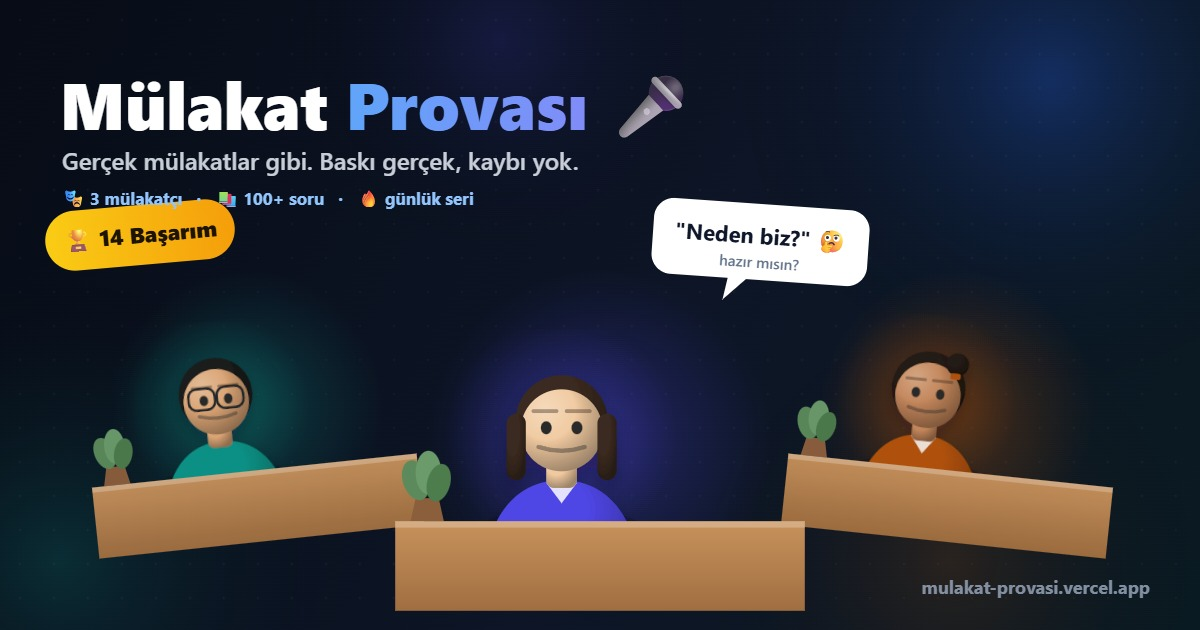
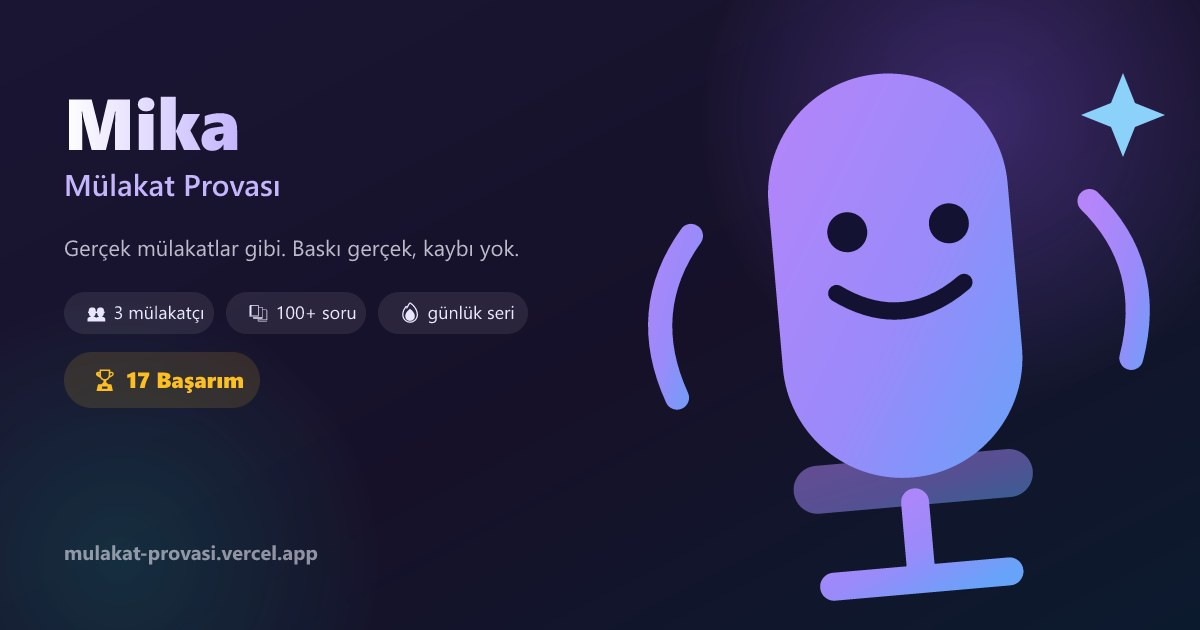
og-image'ı yenile, sonuç kartına Mika damgası ekle
Sosyal paylaşım görseli artık Mika'yı öne çıkarıyor ve doğru başarım
sayısını (17) gösteriyor, eskisi hâlâ 14 diyordu. Sonuç kartında da
artık gerçek bir Mika çizimi var (emoji değil) ve altında "Mika ile
ölçüldü" damgası — bir <img> yüklemek yerine mika.svg'nin path'leri
doğrudan canvas komutlarına çevrildi, senkron ve hızlı.

diff --git a/src/utils/shareImage.ts b/src/utils/shareImage.ts
@@ -24,6 +24,89 @@ const rankSealColor: Record<ShareCardData["rank"], string> = {
   platinum: "#7dd3fc",
 };
 
+// Mika'yı (maskotumuz) doğrudan canvas path'leriyle çiziyor — bir <img> yükleyip
+// asenkron beklemek yerine, mika.svg'deki aynı koordinatları (1024x1024'lük
+// orijinal çizim alanında) transform'larla ölçekleyip yeniden kullanıyoruz.
+function drawMika(ctx: CanvasRenderingContext2D, cx: number, cy: number, size: number) {
+  const scale = size / 1024;
+  ctx.save();
+  ctx.translate(cx, cy);
+  ctx.scale(scale, scale);
+  ctx.translate(-512, -512);
+
+  const bodyGrad = ctx.createLinearGradient(392, 255, 632, 660);
+  bodyGrad.addColorStop(0, "#b685fa");
+  bodyGrad.addColorStop(0.55, "#9a8afa");
+  bodyGrad.addColorStop(1, "#67a3f9");
+
+  ctx.save();
+  ctx.translate(512, 512);
+  ctx.rotate((-5 * Math.PI) / 180);
+  ctx.translate(-512, -512);
+
+  ctx.strokeStyle = bodyGrad;
+  ctx.lineCap = "round";
+  ctx.lineWidth = 24;
+  ctx.beginPath();
+  ctx.moveTo(312, 400);
+  ctx.quadraticCurveTo(252, 470, 284, 560);
+  ctx.stroke();
+  ctx.beginPath();
+  ctx.moveTo(712, 400);
+  ctx.quadraticCurveTo(772, 470, 740, 560);
+  ctx.stroke();
+
+  ctx.fillStyle = bodyGrad;
+  ctx.globalAlpha = 0.5;
+  ctx.beginPath();
+  ctx.roundRect(392, 640, 240, 48, 24);
+  ctx.fill();
+  ctx.globalAlpha = 1;
+
+  ctx.lineWidth = 28;
+  ctx.beginPath();
+  ctx.moveTo(512, 685);
+  ctx.lineTo(512, 762);
+  ctx.moveTo(424, 762);
+  ctx.lineTo(600, 762);
+  ctx.stroke();
+
+  ctx.fillStyle = bodyGrad;
+  ctx.beginPath();
+  ctx.roundRect(392, 255, 240, 405, 120);
+  ctx.fill();
+
+  ctx.fillStyle = "#141232";
+  ctx.beginPath();
+  ctx.arc(468, 410, 20, 0, Math.PI * 2);
+  ctx.fill();
+  ctx.beginPath();
+  ctx.arc(570, 410, 20, 0, Math.PI * 2);
+  ctx.fill();
+  ctx.lineWidth = 17;
+  ctx.strokeStyle = "#141232";
+  ctx.beginPath();
+  ctx.moveTo(452, 470);
+  ctx.quadraticCurveTo(516, 516, 580, 470);
+  ctx.stroke();
+  ctx.restore();
+
+  ctx.fillStyle = "#8bd1fa";
+  ctx.beginPath();
+  ctx.moveTo(735, 255);
+  ctx.lineTo(747, 285);
+  ctx.lineTo(777, 297);
+  ctx.lineTo(747, 309);
+  ctx.lineTo(735, 339);
+  ctx.lineTo(723, 309);
+  ctx.lineTo(693, 297);
+  ctx.lineTo(723, 285);
+  ctx.closePath();
+  ctx.fill();
+
+  ctx.restore();
+}
+
 function wrapText(ctx: CanvasRenderingContext2D, text: string, maxWidth: number): string[] {
   const words = text.split(" ");
   const lines: string[] = [];
@@ -77,11 +160,12 @@ export function generateShareImage(data: ShareCardData): Promise<Blob | null> {
   glow(120, 950, 300, "rgba(13,148,136,0.24)");
   glow(400, 260, 260, `${sealColor}26`);
 
-  // Header
+  // Header — gerçek Mika çizimi, emoji yerine.
+  drawMika(ctx, 74, 60, 56);
   ctx.textAlign = "left";
   ctx.fillStyle = "#f4f2ff";
   ctx.font = "800 27px 'Segoe UI', sans-serif";
-  ctx.fillText("🎤 Mika · Mülakat Provası", 56, 76);
+  ctx.fillText("Mika · Mülakat Provası", 104, 68);
 
   ctx.textAlign = "right";
   const dateStr = new Date().toLocaleDateString("tr-TR", { day: "numeric", month: "long", year: "numeric" });
@@ -189,17 +273,20 @@ export function generateShareImage(data: ShareCardData): Promise<Blob | null> {
     ctx.fillText(line, cardX + 30, cardY + 76 + i * 27);
   });
 
-  // Footer — küçük bir marka rozeti, itiraf/dipnot havası yerine.
+  // Footer — küçük bir "Mika onaylı" damgası, itiraf/dipnot havası yerine.
   ctx.textAlign = "center";
   ctx.font = "700 17px 'Segoe UI', sans-serif";
-  const footerW = ctx.measureText(data.footer).width + 40;
+  const footerTextW = ctx.measureText(data.footer).width;
+  const footerIconSpace = 34;
+  const footerW = footerTextW + footerIconSpace + 44;
   const footerY = canvas.height - 56;
   ctx.fillStyle = "rgba(255,255,255,0.08)";
   ctx.beginPath();
-  ctx.roundRect(canvas.width / 2 - footerW / 2, footerY - 26, footerW, 40, 20);
+  ctx.roundRect(canvas.width / 2 - footerW / 2, footerY - 26, footerW, 44, 22);
   ctx.fill();
+  drawMika(ctx, canvas.width / 2 - footerW / 2 + 24, footerY - 4, 30);
   ctx.fillStyle = "rgba(244,242,255,0.85)";
-  ctx.fillText(data.footer, canvas.width / 2, footerY + 1);
+  ctx.fillText(data.footer, canvas.width / 2 + footerIconSpace / 2, footerY + 1);
 
   return new Promise((resolve) => canvas.toBlob((blob) => resolve(blob), "image/png"));
 }

diff --git a/src/components/ResultScreen.tsx b/src/components/ResultScreen.tsx
@@ -94,7 +94,7 @@ export default function ResultScreen({
           ],
           tipLabel: statLabels[weakStat],
           tip,
-          footer: "mulakat-provasi ile hazırlandı",
+          footer: "Mika ile ölçüldü",
         },
         "mulakat-provasi-sonuc-raporu.png"
       );

diff --git a/PROJE_DURUMU.md b/PROJE_DURUMU.md
@@ -1,6 +1,16 @@
 # Mülakat Provası — Proje Durumu (Handoff Notu)
 
-Bu dosya, yeni bir Claude sohbetinin bu projeye sıfırdan context kaybı olmadan devam edebilmesi için yazıldı. **Son güncelleme: 2026-09-05 (29. tur — maskotun resmi adı "Mika" oldu, arayüze ve açılış sahnesine entegre edildi).**
+Bu dosya, yeni bir Claude sohbetinin bu projeye sıfırdan context kaybı olmadan devam edebilmesi için yazıldı. **Son güncelleme: 2026-09-05 (30. tur — og-image yenilendi, sonuç kartına gerçek Mika çizimi + "Mika ile ölçüldü" damgası eklendi).**
+
+## 30. tur — og-image yenileme + sonuç kartına Mika damgası (2026-09-05)
+
+Önceki turda kapsam dışı bırakılan iki iş tamamlandı:
+
+- **`public/og-image.jpg` tamamen yenilendi.** Eski tasarım (3 mülakatçı illüstrasyonu + "14 Başarım") yerine Mika'yı öne çıkaran yeni bir kompozisyon: solda başlık ("Mika" + "Mülakat Provası" alt başlığı), etiket ("Gerçek mülakatlar gibi..."), 3 özellik rozeti, doğru başarım sayısı ("17 Başarım"), sağda büyük Mika çizimi + parıltı. SVG olarak tasarlanıp `resvg-cli` ile 1200×630 rasterize edildi, sonra tarayıcı canvas'ı üzerinden JPEG'e (kalite 0.88) çevrildi — PNG 181KB idi, JPEG 49KB (**−73%**), önceki turların "bu görsel her ziyaretçiye PWA tarafından önbelleğe alınıyor" dersine sadık kalındı. Mika'nın koordinatlarını (kol/gövde/göz/gülümseme) orijinal 1024×1024 çizim alanından `translate+rotate+scale` ile ölçeklerken ilk denemede taşma oldu (scale 1.55 ile sağ/üst kenarlardan taşıyordu) — bounding box'ı elle hesaplayıp (520×507) doğru ölçeği (1.0) ve merkezi (900,330) bulup düzeltildi.
+- **Sonuç kartına (`utils/shareImage.ts`) gerçek Mika çizimi eklendi.** Yeni `drawMika(ctx, cx, cy, size)` fonksiyonu — bir `<img>` yükleyip asenkron beklemek yerine, mika.svg'nin path'lerini doğrudan Canvas 2D komutlarına çevirip senkron çiziyor (aynı `translate/rotate/scale` tekniği). İki yerde kullanıldı: (1) kart başlığında 🎤 emojisinin yerine, (2) alttaki marka rozetinde bir "damga" gibi. Kullanıcının istediği "Mika ile ölçüldü" metni `ResultScreen.tsx`'teki `footer` prop'una yazıldı (eskisi: "mulakat-provasi ile hazırlandı"). Vite dev server'ın canlı TS import'unu kullanan geçici bir debug sayfasıyla (`public/debug-share.html`, iş bitince silindi) gerçek çıktı piksel piksel görsel olarak doğrulandı — hem header'daki küçük Mika (56px) hem footer'daki damga (30px) net ve tanınabilir çıktı.
+- `npm run build`/`lint`/`test` temiz.
+
+## 29. tur — Maskotun adı "Mika": marka metni + uygulama içi kullanım + açılış sahnesi (2026-09-05)
 
 ## 29. tur — Maskotun adı "Mika": marka metni + uygulama içi kullanım + açılış sahnesi (2026-09-05)
 
